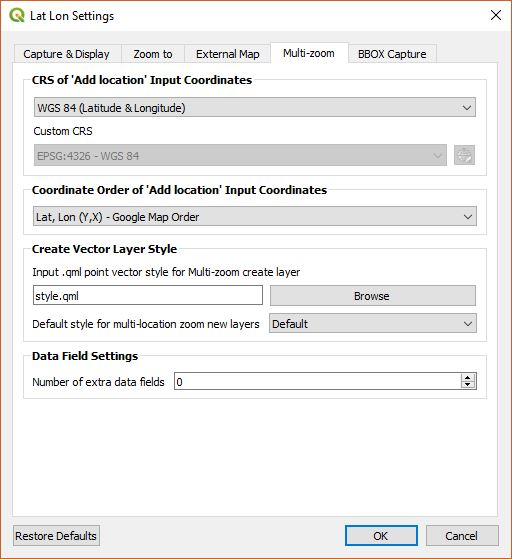
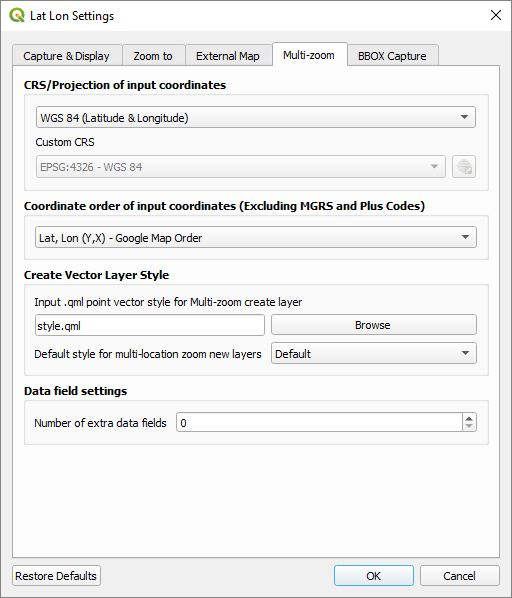
added mgrs and plus codes to multi location zoom

Changed region(s): [[0.0, 0.0, 1.0, 1.0]]

diff --git a/settings.py b/settings.py
@@ -100,7 +100,7 @@ class SettingsWidget(QDialog, FORM_CLASS):
         self.mapProviderComboBox.addItems(mapProviders.mapProviderNames())
         
         ### MULTI-ZOOM ###
-        self.multiZoomToProjectionComboBox.addItems(['WGS 84 (Latitude & Longitude)', 'Project CRS','Custom CRS'])
+        self.multiZoomToProjectionComboBox.addItems(['WGS 84 (Latitude & Longitude)', 'MGRS', 'Project CRS','Custom CRS','Plus Codes'])
         self.multiZoomToProjectionComboBox.activated.connect(self.setEnabled)
         self.multiZoomToProjectionSelectionWidget.setCrs(epsg4326)
         self.qmlBrowseButton.clicked.connect(self.qmlOpenDialog)
@@ -319,8 +319,9 @@ class SettingsWidget(QDialog, FORM_CLASS):
         self.zoomToCoordOrderComboBox.setEnabled((zoomToProjection != self.ProjectionTypeMGRS) and (zoomToProjection != self.ProjectionTypePlusCodes))
         self.zoomToProjectionSelectionWidget.setEnabled(zoomToProjection == self.ProjectionTypeCustomCRS)
 
+        # MULTI Zoom
         zoomToProjection = int(self.multiZoomToProjectionComboBox.currentIndex())
-        self.multiZoomToProjectionSelectionWidget.setEnabled(zoomToProjection == 2)
+        self.multiZoomToProjectionSelectionWidget.setEnabled(zoomToProjection == 3)
         
     def showTab(self, tab):
         self.tabWidget.setCurrentIndex(tab)
@@ -457,14 +458,24 @@ class SettingsWidget(QDialog, FORM_CLASS):
         if self.zoomToProjection == self.ProjectionTypePlusCodes:
             return True
         return False
+    
+    def multiZoomToProjIsMGRS(self):
+        if self.multiZoomToProjection == 1: # MGRS
+            return True
+        return False
+    
+    def multiZoomToProjIsPlusCodes(self):
+        if self.multiZoomToProjection == 4: # Plus Codes
+            return True
+        return False
 
     def multiZoomToProjIsWgs84(self):
         if self.multiZoomToProjection == 0: # Wgs84
             return True
-        if self.multiZoomToProjection == 1: # Project CRS
+        if self.multiZoomToProjection == 2: # Project CRS
             if self.canvas.mapSettings().destinationCrs() == epsg4326:
                 return True
-        if self.multiZoomToProjection == 2: # Custom CRS
+        if self.multiZoomToProjection == 3: # Custom CRS
             if self.multiZoomToCustomCRS() == epsg4326:
                 return True
         return False
@@ -472,7 +483,7 @@ class SettingsWidget(QDialog, FORM_CLASS):
     def multiZoomToCRS(self):
         if self.multiZoomToProjection == 0: # Wgs84
             return self.epse4326
-        if self.multiZoomToProjection == 1: # Project CRS
+        if self.multiZoomToProjection == 2: # Project CRS
             return self.canvas.mapSettings().destinationCrs()
-        if self.multiZoomToProjection == 2: # Custom CRS
+        if self.multiZoomToProjection == 3: # Custom CRS
             return self.multiZoomToCustomCRS()

diff --git a/multizoom.py b/multizoom.py
@@ -11,6 +11,8 @@ from qgis.core import ( QgsCoordinateTransform, QgsVectorLayer,
 from qgis.gui import QgsVertexMarker
 from .LatLon import LatLon
 from .util import *
+from . import mgrs
+from . import olc
 
 FORM_CLASS, _ = loadUiType(os.path.join(
     os.path.dirname(__file__), 'ui/multiZoomDialog.ui'))
@@ -75,14 +77,18 @@ class MultiZoomWidget(QDockWidget, FORM_CLASS):
     def initLabel(self):
         if self.settings.multiZoomToProjIsWgs84():
             if self.settings.multiCoordOrder == self.settings.OrderYX:
-                self.label.setText("Add location ('lat,lon or lat,lon,...)")
+                self.label.setText("Enter coordinate ('lat,lon,...)")
             else:
-                self.label.setText("Add location ('lon,lat or lon,lat,...)")
+                self.label.setText("Enter coordinate ('lon,lat,...)")
+        elif self.settings.multiZoomToProjIsMGRS():
+            self.label.setText("Enter coordinate ('mgrs,...)")
+        elif self.settings.multiZoomToProjIsPlusCodes():
+            self.label.setText("Enter coordinate ('Plus code,...)")
         else:
             if self.settings.multiCoordOrder == self.settings.OrderYX:
-                self.label.setText("Add location ({} Y,X or Y,X,...)".format(self.settings.multiZoomToCRS().authid()))
+                self.label.setText("Enter coordinate ({} Y,X,...)".format(self.settings.multiZoomToCRS().authid()))
             else:
-                self.label.setText("Add location ({} X,Y or X,Y,...)".format(self.settings.multiZoomToCRS().authid()))
+                self.label.setText("Enter coordinate ({} X,Y,...)".format(self.settings.multiZoomToCRS().authid()))
             
     def settingsChanged(self):
         self.initLabel()
@@ -284,7 +290,22 @@ class MultiZoomWidget(QDockWidget, FORM_CLASS):
         data = []
         numFields = len(parts)
         try:
-            if numFields == 1:
+            if self.settings.multiZoomToProjIsMGRS():
+                '''Check to see if we have an MGRS coordinate for entry'''
+                lat, lon = mgrs.toWgs(parts[0])
+                if numFields >= 2:
+                    label = parts[1]
+                if numFields >= 3:
+                    data = parts[2:]
+            if self.settings.multiZoomToProjIsPlusCodes():
+                coord = olc.decode(parts[0])
+                lat = coord.latitudeCenter 
+                lon = coord.longitudeCenter
+                if numFields >= 2:
+                    label = parts[1]
+                if numFields >= 3:
+                    data = parts[2:]
+            elif numFields == 1:
                 '''Perhaps the user forgot to add the comma separator. Check to see
                    if there are two coordinates anyway.'''
                    

diff --git a/field2geom.py b/field2geom.py
@@ -18,7 +18,7 @@ from . import mgrs
 from .LatLon import LatLon
 from .util import epsg4326
 from . import olc
-import traceback
+#import traceback
 
 def tr(string):
     return QCoreApplication.translate('Processing', string)
@@ -158,8 +158,8 @@ class Field2GeomAlgorithm(QgsProcessingAlgorithm):
                 f.setGeometry(QgsGeometry.fromPointXY(QgsPointXY(lon,lat)))
                 sink.addFeature(f)
             except:
-                s = traceback.format_exc()
-                feedback.pushInfo(s)
+                '''s = traceback.format_exc()
+                feedback.pushInfo(s)'''
                 failed += 1
 
             

diff --git a/readme.md b/readme.md
@@ -46,7 +46,15 @@ Some of the functions can be accessed from the ***Lat Lon Tools*** toolbar. If f
     
     Right below the text input box is a status line that tells you exactly what CRS and coordinate order you are using.
     
-* <img src="images/multizoom.png" alt="Multi-location Zoom"> ***Multi-location Zoom*** - Here the user can define a set of quick zoom-to locations. The user can also paste in or type in a coordinate in the ***Add location*** box to add it to the list. By default the format of the data entered is **"latitude,longitude[,label,data1,data10]"** where the contents in the [] are optional. Optionally, the user can define the input as **"Y,X[,label,data1,...,data10]"** where **Y** and **X** are coordinates defined by the project CRS or some other CRS. See ***Settings*** to set the input coordinate CRS. This defaults to WGS 84, Latitude and Longitude.<br/><br/>When the user clicks on a location in the list, QGIS centers the map on the location and highlights it. Double clicking on a **Label** or **Data** cell allows the text to be edited. By default the **Data** fields will not be visible, but can be added from ***Settings***. More than one location can be selected by clicking on the first point and then Shift-Click to select a range or using Ctrl-Click to add additional selected items. Markers for all selected items will be displayed. The following are additional functions.
+* <img src="images/multizoom.png" alt="Multi-location Zoom"> ***Multi-location Zoom*** - Here the user can define a set of quick zoom-to locations. The user can also paste in or type in a coordinate in the ***Enter coordinate*** box to add it to the list. By default the format of the data entered is **"latitude,longitude[,label,data1,...,data10]"** where the contents in [...] are optional. Various input formats are supported and can be configured in **Settings** by selecting the input projection and coordinate order. These include:
+    * **"latitude,longitude[,label,data1,...,data10]"**
+    * **"longitude,latitude[,label,data1,...,data10]"**
+    * **"mgrs[,label,data1,...,data10]"**
+    * **"Y,X[,label,data1,...,data10]"**
+    * **"X,Y[,label,data1,...,data10]"**
+     * **"plus codes[,label,data1,...,data10]"**
+   
+    When the user clicks on a location in the list, QGIS centers the map on the location and highlights it. Double clicking on a **Label** or **Data** cell allows the text to be edited. By default the **Data** fields will not be visible, but can be added from ***Settings***. More than one location can be selected by clicking on the first point and then Shift-Click to select a range or using Ctrl-Click to add additional selected items. Markers for all selected items will be displayed. The following are additional functions.
     * <img src="doc/open.png" alt="Open"> ***Open Location List*** reads in a set of coordinates that are comma separated with an optional label. There should only be one location per line and formatted as **"latitude,longitude,label,data1,...,data10"** or simply **"latitude,longitude"**.
     * <img src="doc/save.png" alt="Save"> ***Save Location List*** saves all of the zoom-to entries in a .csv file, formatted as **"latitude,longitude,label,data1,...,data10"**.
     * <img src="doc/delete.png" alt="Delete"> ***Delete Selected Location*** removes all selected locations. 
@@ -193,19 +201,21 @@ Enable the following if a temporary marker is desired to be displayed at the loc
 
 These are settings for the Multi-location zoom dialog box. 
 
-**CRS of 'Add location' Input Coordinates**
+**CRS/Projection of input coordinates**
 
-The user sets the CRS/projection of the coordinates entered in the ***Add location*** text box. By default this is set to WGS 84, latitude and longitude. This has no effect on the coordinates in the ***Location List*** that can be read in. The location list must always be WGS 84. The options are:
+The user sets the CRS/projection of the coordinates in the ***Enter coordinate*** text box. By default this is set to WGS 84, latitude and longitude. This has no effect on the coordinates in the ***Location List*** that can be read in. The location list must always be WGS 84. The options are:
 
 * **WGS 84 (Latitude &amp; Longitude)**
+* **MGRS**
 * **Project CRS**
 * **Custom CRS**
+* **Plus Codes**
 
 When **Custom CRS** is selected, the user is allowed to select a custom CRS projection.
 
-**Coordinate Order of 'Add location' Input Coordinates**
+**Coordinate Order of input coordinates**
 
-The user sets the order of coordinates entered in the ***Add location*** text box. The order is either latitude followed by longitude (Y,X) or longitude followed by latitude (X,Y). By default the order is "Latitude, Longitude", the format used by Google Maps.
+The user sets the order of coordinates in the ***Enter coordinate*** text box. The order is either latitude followed by longitude (Y,X) or longitude followed by latitude (X,Y). By default the order is "Latitude, Longitude", the format used by Google Maps. This is not applicable when MGRS or Plus Codes coordinates are being used.
 
 **Create Vector Layer Style**
 
